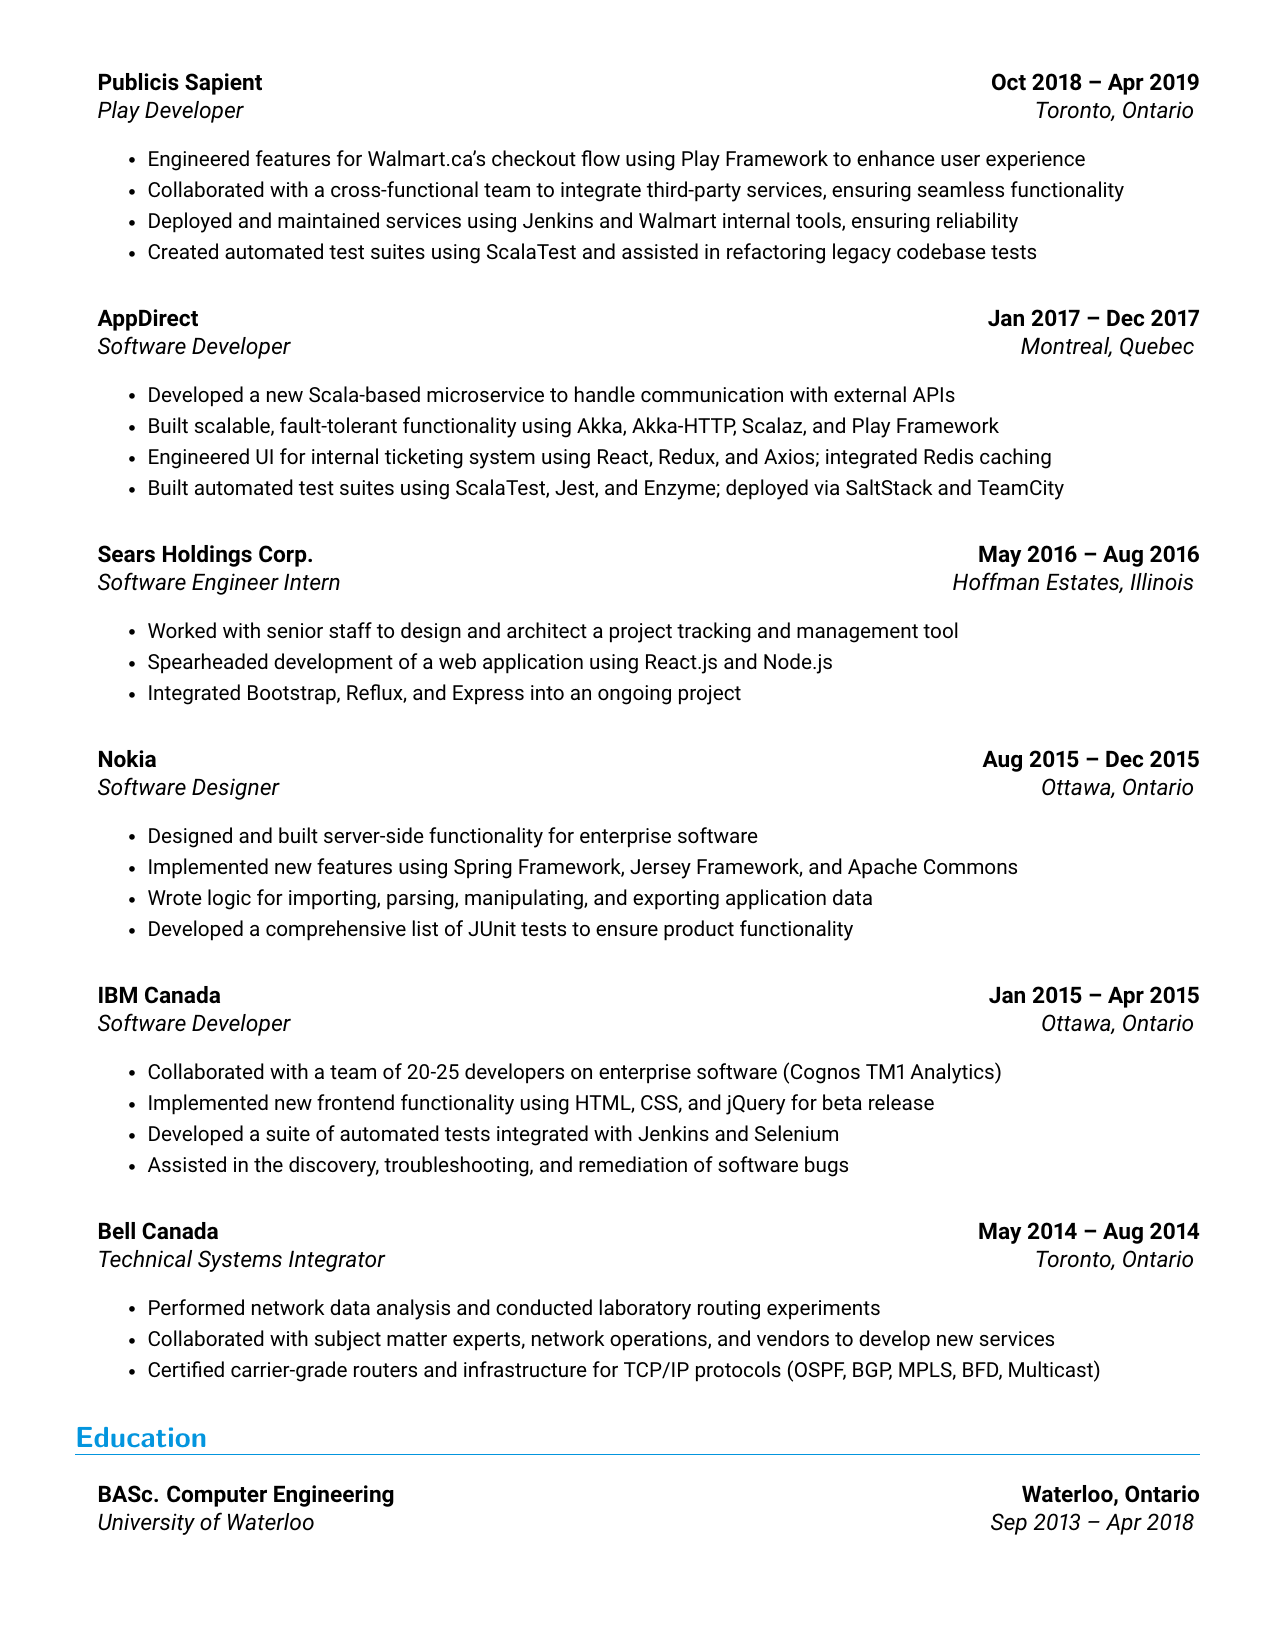
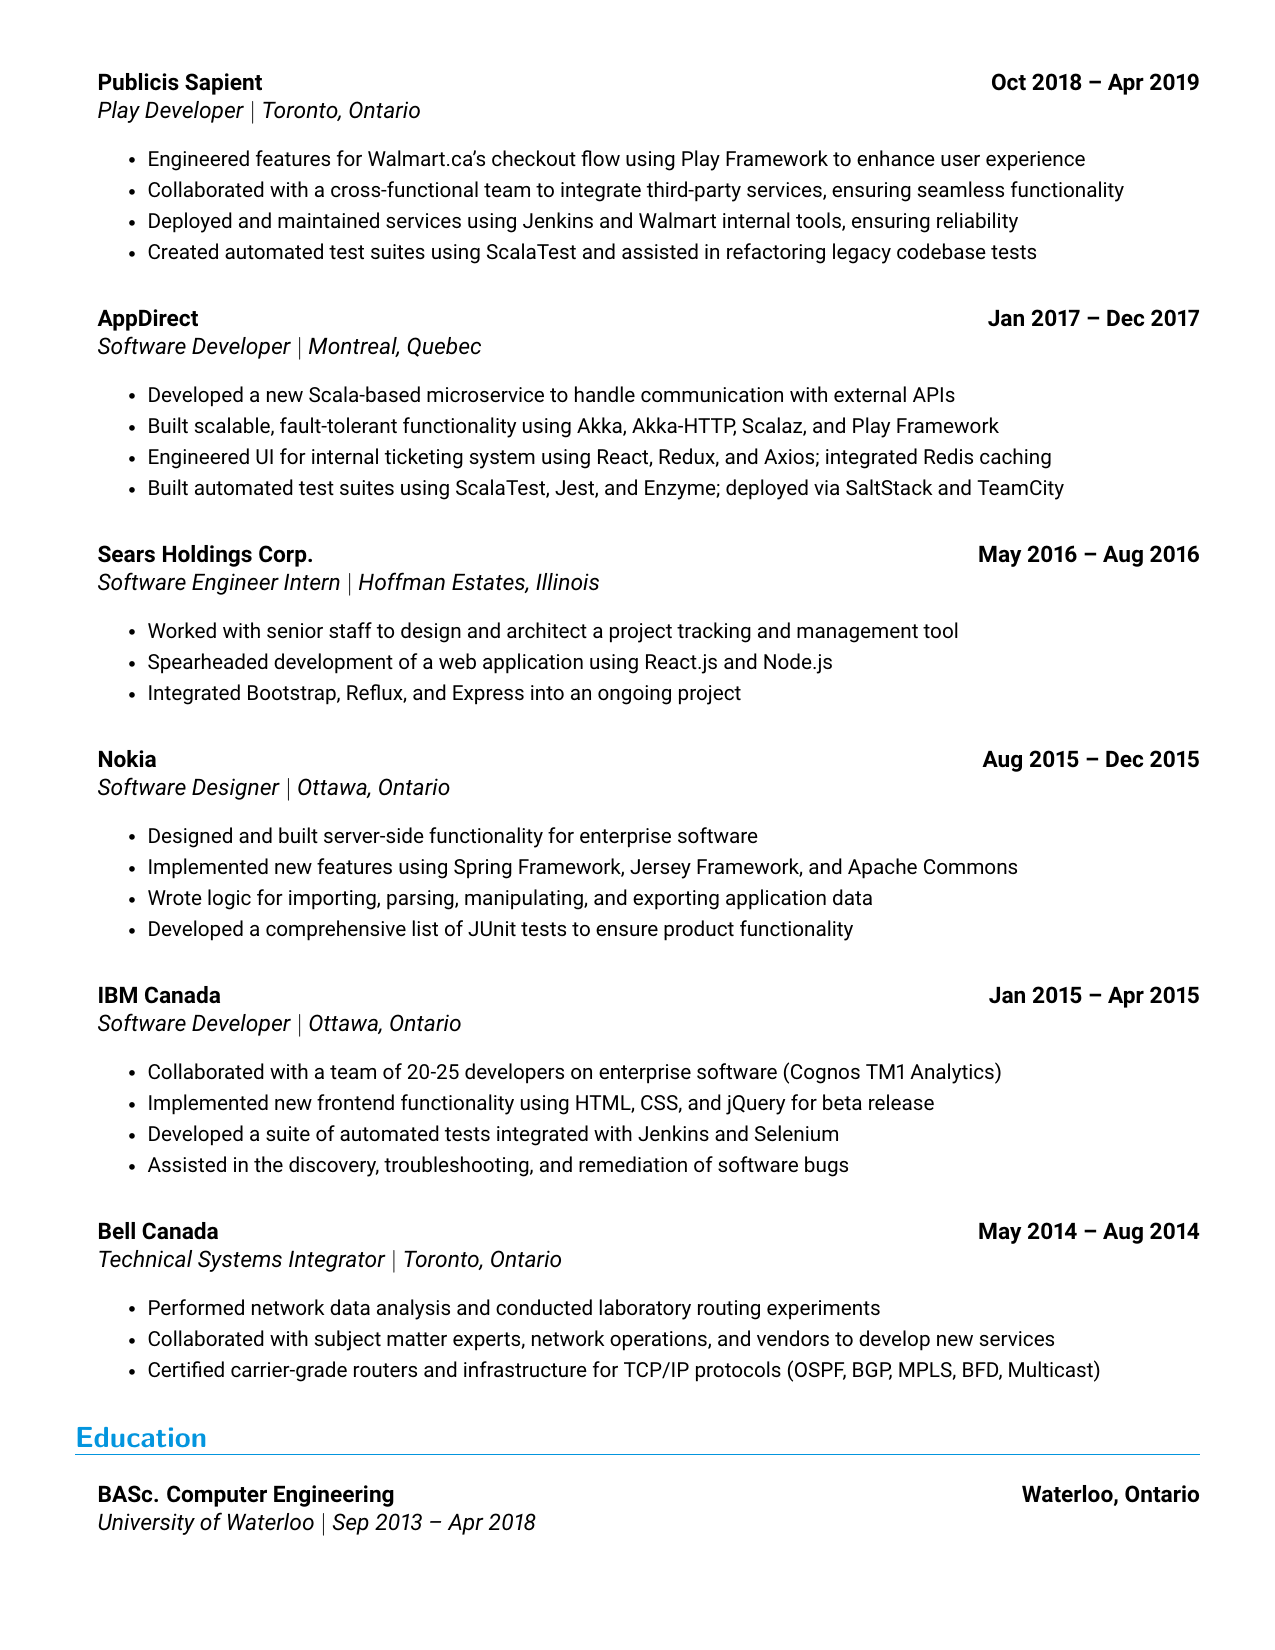
ATS: separate Title and Location on line 2 with explicit pipe delimiter (|) so Workday does not concatenate city into Job Title

diff --git a/ats/ariel_paulin_ats.tex b/ats/ariel_paulin_ats.tex
@@ -66,11 +66,11 @@
   }
 }
 
-% Standard layout for ATS parsing (Company + Dates on line 1, Title + Location on line 2)
+% Standard layout for ATS parsing (Company + Dates on line 1, Title | Location on line 2)
 \newcommand{\resumeSubheading}[4]{
   \vspace{4pt}\item
     \textbf{#3} \hfill \textbf{#2} \\
-    \textit{#1} \hfill \textit{#4}
+    \textit{#1} $|$ \textit{#4}
   \vspace{2pt}
 }
 
